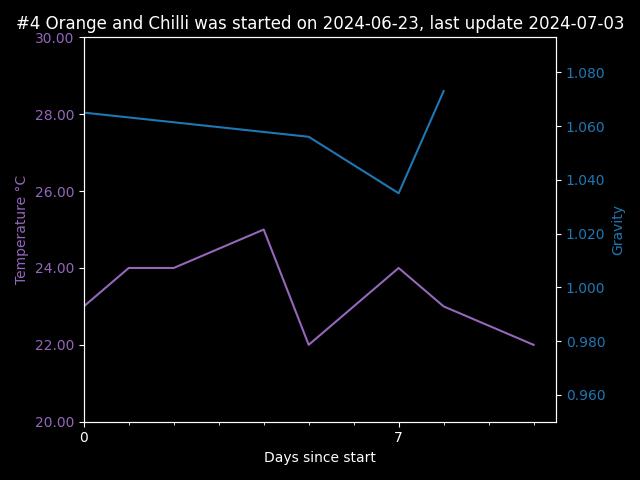
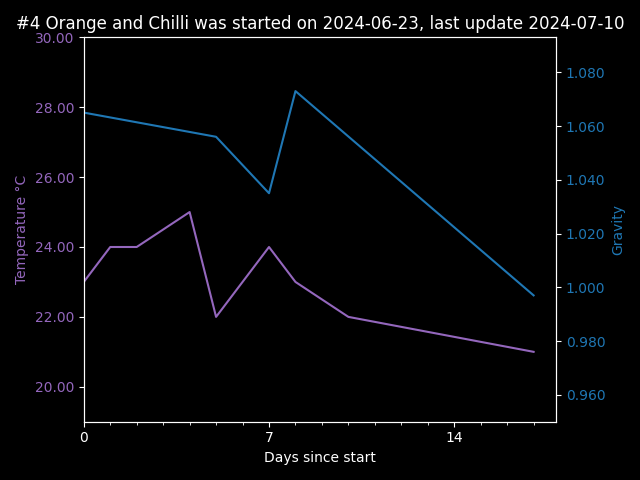
2024-07-10

diff --git a/Recipe List/#2 Elderflower.md b/Recipe List/#2 Elderflower.md
@@ -52,7 +52,7 @@ Yeast Food:
 | 2024-06-27 | 25.00           |         |                                                      |
 | 2024-06-28 | 22.00           | 1.035   |                                                      |
 | 2024-07-03 | 22.00           | 1.034   |                                                      |
-|            |                 |         |                                                      |
+| 2024-07-10 | 21.00           | 1.010   | slightly unsure of reading                           |
 |            |                 |         |                                                      |
 
 ![#2 Elderflower.png](%232%20Elderflower.png)

diff --git a/Recipe List/#3 Mojito.md b/Recipe List/#3 Mojito.md
@@ -62,7 +62,7 @@ Yeast Food:
 | 2024-06-30 | 24.00           | 1.038   |     |                           |
 | 2024-07-01 | 23.00           | 1.087   |     | Estimated blended gravity |
 | 2024-07-03 | 22.00           |         |     |                           |
-|            |                 |         |     |                           |
+| 2024-07-10 | 21.00           | 1.000   |     |                           |
 |            |                 |         |     |                           |
 |            |                 |         |     |                           |
 |            |                 |         |     |                           |

diff --git a/Recipe List/#4 Orange and Chilli.md b/Recipe List/#4 Orange and Chilli.md
@@ -59,7 +59,7 @@ Yeast Food:
 | 2024-06-30 | 24.00           | 1.035   |     |                           |
 | 2024-07-01 | 23.00           | 1.073   |     | Estimated blended gravity |
 | 2024-07-03 | 22.00           |         |     |                           |
-|            |                 |         |     |                           |
+| 2024-07-10 | 21.00           | 0.997   |     |                           |
 |            |                 |         |     |                           |
 |            |                 |         |     |                           |
 |            |                 |         |     |                           |

diff --git a/Recipe List/#1 Standard.md b/Recipe List/#1 Standard.md
@@ -52,7 +52,7 @@ Yeast Food:
 | 2024-06-27 | 25.00           |         |     |                                                            |
 | 2024-06-28 | 22.00           | 1.035   |     |                                                            |
 | 2024-07-03 | 22.00           | 1.034   |     |                                                            |
-|            |                 |         |     |                                                            |
+| 2024-07-10 | 21.00           | 1.010   |     |                                                            |
 
 ![#1 Standard.png](%231%20Standard.png)
 
